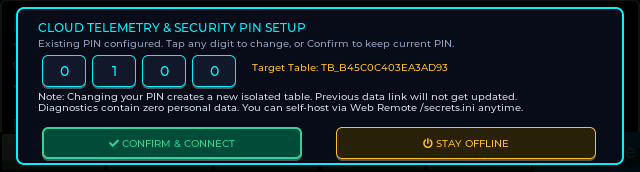
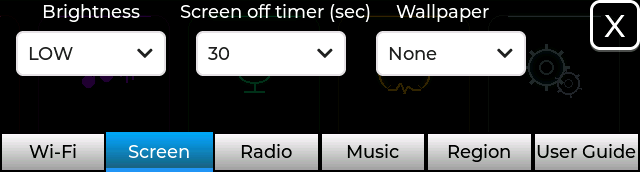
docs: overhaul README showcase with 2-column layout and per-app dynamic GIFs

diff --git a/README.md b/README.md
@@ -43,20 +43,21 @@ TuneBar runs on the 3.49-inch capacitive touch screen development board powered 
 
 *All captures shown below are 100% genuine uncompressed framebuffers extracted directly from the physical ESP32-S3 hardware via `/api/screenshot`.*
 
-<p align="center">
-  <img src="document/tunebar_apps_showcase.gif" alt="TuneBar Dynamic Interface Showcase (14 Applications)" width="100%" />
-  <br>
-  <em>Live hardware captures cycling through all 14 applications (3.0s transition).</em>
-</p>
-
-| Ambient, Time & Core Utilities | Media, AI & System Management |
-| :--- | :--- |
-| **Retro Nixie Digital Clock Face**<br>[![Nixie Clock Face](document/screen_clock.png)](document/screen_clock.png)<br>Authentic retro glowing Nixie tubes, hardware RTC precision, real-time date/battery telemetry, and sine PWM breathing dimming. | **Multilingual Global Internet Radio**<br>[![Radio Player](document/screen_radio_player_hi.png)](document/screen_radio_player_hi.png)<br>Live streaming across 6 world languages (**HI**, **EN**, **ES**, **CN**, **DE**, **JA**) with dynamic catalog selection and background audio. |
-| **Live Climate, Weather & AQI Station**<br>[![Climate & Weather](document/screen_weather.png)](document/screen_weather.png)<br>Live weather conditions, temperature, humidity, local wind speed, and real-time US AQI / PM2.5 index with color safety indicators. | **Local SD & LAN Music Player**<br>[![Music Player](document/screen_music_playing.png)](document/screen_music_playing.png)<br>$O(1)$ PSRAM seek for local SD FATFS tracks + Wi-Fi HTTP LAN music streaming with DMA bounce-buffer protection. |
-| **Retro Alarm Clock Interface**<br>[![Retro Alarm](document/screen_alarm.png)](document/screen_alarm.png)<br>Emerald-green retro alarm interface with independent hour/minute adjustments, armed status toggling, and acoustic audit test. | **Autonomous AI Voice Assistant**<br>[![AI Voice Assistant](document/screen_assistant.png)](document/screen_assistant.png)<br>Conversational voice interface: dual MEMS mic capture, Groq Whisper STT (<200ms), Llama 3.3 70B reasoning, and neural TTS. |
-| **6-Axis Digital Spirit Level & Inclinometer**<br>[![Spirit Level](document/screen_spirit_level_panel1.png)](document/screen_spirit_level_panel1.png)<br>QMI8658 6-axis IMU bullseye inclinometer, roll/pitch display, and 8-step guided 3D calibration wizard. | **Power & Breathing Profile Manager**<br>[![Power Profile](document/screen_power_profile.png)](document/screen_power_profile.png)<br>Scrollable control panel for breathing duty/timings, service gating, and crowd-sourced cloud battery discharge curve fitting. |
-| **System Utilities & App Launcher (5 Apps)**<br>[![Utility Launcher](document/screen_utility_5apps.png)](document/screen_utility_5apps.png)<br>Dedicated tools launcher: Torch flashlight, System Info diagnostics, Spirit Level, Power Profile, and Firmware OTA. | **On-Device Firmware OTA Manager**<br>[![Firmware OTA](document/screen_ota_carousel.png)](document/screen_ota_carousel.png)<br>Multi-repo community releases, dynamic GitHub catalog generation, SHA256 integrity verification, and battery safety interlocks. |
-| **Procedural Vector Display Themes**<br>[![Vector Themes](document/screen_settings_screen.png)](document/screen_settings_screen.png)<br>7 math-generated procedural vector themes (Amber, Emerald, Cyan, Ruby, Lavender, Gold, Monochrome) with 0 bytes flash cost. | **First-Boot Security & Master PIN Setup**<br>[![First-Boot Security](document/screen_consent_modal.png)](document/screen_consent_modal.png)<br>Hardware TRNG PIN setup, isolated SHA256 telemetry tables (`TB_<hash>`), and complete offline mode toggle. |
+| Application Interface & Dynamic Panels | Feature Architecture & Operating Details |
+| :---: | :--- |
+| **Retro Nixie Digital Clock Face**<br>[![Nixie Clock Face](document/screen_clock.png)](document/screen_clock.png) | **Authentic Retro Glow & Precision RTC**<br>• Driven by the hardware **PCF85063 RTC** with crystal-accurate day/date.<br>• Real-time battery telemetry gauge displaying live loaded voltage and discharge percentage.<br>• Gentle sine-wave PWM breathing brightness dimming to prevent screen burn-in and save energy.<br>• Automatically drops Wi-Fi modem to low-power standby during idle to maximize battery runtime. |
+| **Live Climate, Weather & AQI Station**<br>[![Climate & Weather](document/screen_weather.png)](document/screen_weather.png) | **Ambient Environmental & Climate Monitor**<br>• Real-time local weather observations with dynamic animated condition glyphs.<br>• Temperature monitoring with single-tap Celsius / Fahrenheit toggle, relative humidity, and wind speed.<br>• Integrated US Air Quality Index (AQI) & PM2.5 particulate monitor with color-coded safety indices.<br>• Periodic non-blocking background synchronization with Open-Meteo REST APIs. |
+| **Multilingual Global Internet Radio**<br>[![Radio Player](document/app_radio.gif)](document/app_radio.gif)<br>*(Cycles through Hindi, English & German streaming)* | **International 6-Language Live Streaming**<br>• Worldwide internet radio tuner natively supporting 6 international languages (**HI**, **EN**, **ES**, **CN**, **DE**, **JA**).<br>• Dynamic catalog switching between curated Indian stations ([OnlineRadioFM.in](https://onlineradiofm.in), [RadioIndia.in](https://radioindia.in)) and global stream directories.<br>• Zero-alloc ring buffer prebuffering (64 KB) with seamless background streaming while switching screens.<br>• Custom station import support via `/stations.csv` on the MicroSD card. |
+| **Media Player Subsystem (SD & LAN)**<br>[![Music Player](document/app_music.gif)](document/app_music.gif)<br>*(Cycles between Local SD Playback & LAN Streaming)* | **Unified Dual-Engine Audio Player**<br>• **Local SD FATFS Engine**: Reads tracks from MicroSD with $O(1)$ fast PSRAM offset indexing.<br>• **DMA-Safe Streaming**: Employs an internal DRAM bounce buffer for SPI SD DMA compatibility, eliminating ESP32-S3 PSRAM memory faults.<br>• **Local Wi-Fi LAN Engine**: Streams audio directly over HTTP from home music servers.<br>• Real-time audio waveform animation, progress scrubber, and volume control. |
+| **Autonomous AI Voice Assistant**<br>[![AI Voice Assistant](document/screen_assistant.png)](document/screen_assistant.png) | **Full-Duplex Voice Intelligence Pipeline**<br>• Acoustic capture via dual onboard MEMS microphones and **ES7210 ADC** with hardware clock divider calibration.<br>• Energy-efficient Voice Activity Detection (VAD) with dynamic ambient noise floor calibration.<br>• Cloud AI reasoning: Groq Whisper STT (<200ms), Llama 3.3 70B cognitive reasoning, and neural TTS streaming.<br>• Hands-free interactive touch trigger with acoustic audio playback via NS4150B amplifier. |
+| **6-Axis Digital Spirit Level & Inclinometer**<br>[![Spirit Level](document/app_spirit_level.gif)](document/app_spirit_level.gif)<br>*(Cycles through Digital Pitch/Roll, Bullseye & Calibration)* | **Precision Motion & Tilt Sensor**<br>• Hardware **QMI8658 6-axis IMU** with real-time digital pitch and roll telemetry.<br>• **Dual Operating Views**: Numeric inclinometer angle readout and a responsive 2D bullseye bubble level.<br>• **8-Step Guided Calibration Wizard**: Calibrates zero-point offsets in NVS across 3 spatial planes.<br>• Auto-rotation screen orientation support based on gravity vector. |
+| **Power & Breathing Profile Manager**<br>[![Power Profile](document/app_power_profile.gif)](document/app_power_profile.gif)<br>*(Cycles between Breathing Controls & Cloud Calibration)* | **Intelligent Battery & Energy Optimization**<br>• Interactive scrollable manager for clock breathing parameters: PWM min/max brightness, ramp-up/down times, and dark holds.<br>• **Service Gating**: Selectively powers down IMU, audio amplifier, or Wi-Fi during dark breathing states.<br>• **Server-Assisted Discharge Calibration**: Pulls golden discharge curves from telemetry or crowd-sourced peer devices.<br>• Real-time monotonic percentage clamp and on-device piecewise linear curve fitting saved to NVS. |
+| **System Utilities & App Launcher**<br>[![Utility Launcher](document/screen_utility_5apps.png)](document/screen_utility_5apps.png) | **5-in-1 Quick-Access Toolkit**<br>• **Torch**: Instant 100% full-screen pure white backlight flashlight.<br>• **System Info**: Live DRAM and PSRAM heap gauges, FreeRTOS task stacks, uptime, and supply rails.<br>• **Spirit Level**: Quick launcher for the 6-axis digital inclinometer.<br>• **Power Profile**: Dedicated shortcut to the battery & breathing optimization suite.<br>• **Firmware OTA**: Direct launch into the community release manager. |
+| **On-Device Firmware OTA Manager**<br>[![Firmware OTA](document/app_ota.gif)](document/app_ota.gif)<br>*(Cycles through Repos, Catalog Carousel & Stepper)* | **Decentralized Multi-Repo Release Manager**<br>• Dynamic discovery and release catalog generation across multiple GitHub community repositories.<br>• Multi-partition flashing with automated rollback protection and SHA-256 binary validation.<br>• Built-in battery voltage safety interlocks preventing bricking during low-battery conditions.<br>• Intuitive swipe-based release carousel with live changelog viewer and step-by-step progress stepper. |
+| **Retro Alarm Clock**<br>[![Retro Alarm](document/screen_alarm.png)](document/screen_alarm.png) | **Dedicated Wake & Reminder Station**<br>• Emerald-green retro alarm interface driven by the hardware RTC alarm register.<br>• Touch-friendly hour and minute incremental adjustments with armed/disarmed status toggle.<br>• Built-in acoustic speaker audit test triggering full-volume NS4150B test chime.<br>• Survives sleep and breathing cycles with hardware alarm wake-up interrupt. |
+| **Main Menu Launcher Carousel**<br>[![Main Menu](document/app_menu.gif)](document/app_menu.gif)<br>*(Cycles between Launcher Card Views)* | **Neon Card-Based Navigation Hub**<br>• Ultra-crisp $640\times172$ horizontal swipe launcher carousel featuring 6 custom neon cards.<br>• Visual categories: **CLIMATE** (Cyan), **RADIO** (Pink), **MUSIC** (Purple), **AI VOICE** (Emerald), **SYSTEM** (Gold), and **SETTINGS** (Slate).<br>• Ambient audio breathing: Active card pulses gently in rhythm with background playback.<br>• Inertial touch scrolling with snappy snapping to center screen. |
+| **Procedural Vector Display Themes**<br>[![Settings Screen](document/app_settings.gif)](document/app_settings.gif)<br>*(Cycles through Screen/Themes, Wi-Fi, Music & Region)* | **7 Zero-Bitmap Procedural Vector Themes**<br>• Math-generated procedural vector themes (Amber, Emerald, Cyan, Ruby, Lavender, Gold, Monochrome).<br>• Consumes **0 bytes of flash image memory**, maximizing DRAM for audio prebuffering and AI models.<br>• Comprehensive device settings suite: Multi-SSID Wi-Fi network manager (up to 10 stored slots).<br>• Customizable backlight presets, idle sleep timeouts, and regional timezone selectors. |
+| **First-Boot Security & Master PIN**<br>[![Security & PIN](document/app_security.gif)](document/app_security.gif)<br>*(Cycles between Consent Notice & TRNG PIN Setup)* | **Privacy-First Hardware Cryptography**<br>• Interactive registration modal on very first boot: configure a 4-digit Master PIN or rely on hardware TRNG.<br>• Isolated SHA-256 telemetry table generation (`TB_<hash>`) ensuring zero cross-contamination of device logs.<br>• Complete 100% offline mode toggle for air-gapped deployments.<br>• Zero personal identification data collected; self-hostable via local `/secrets.ini`. |
 
 ---
 
